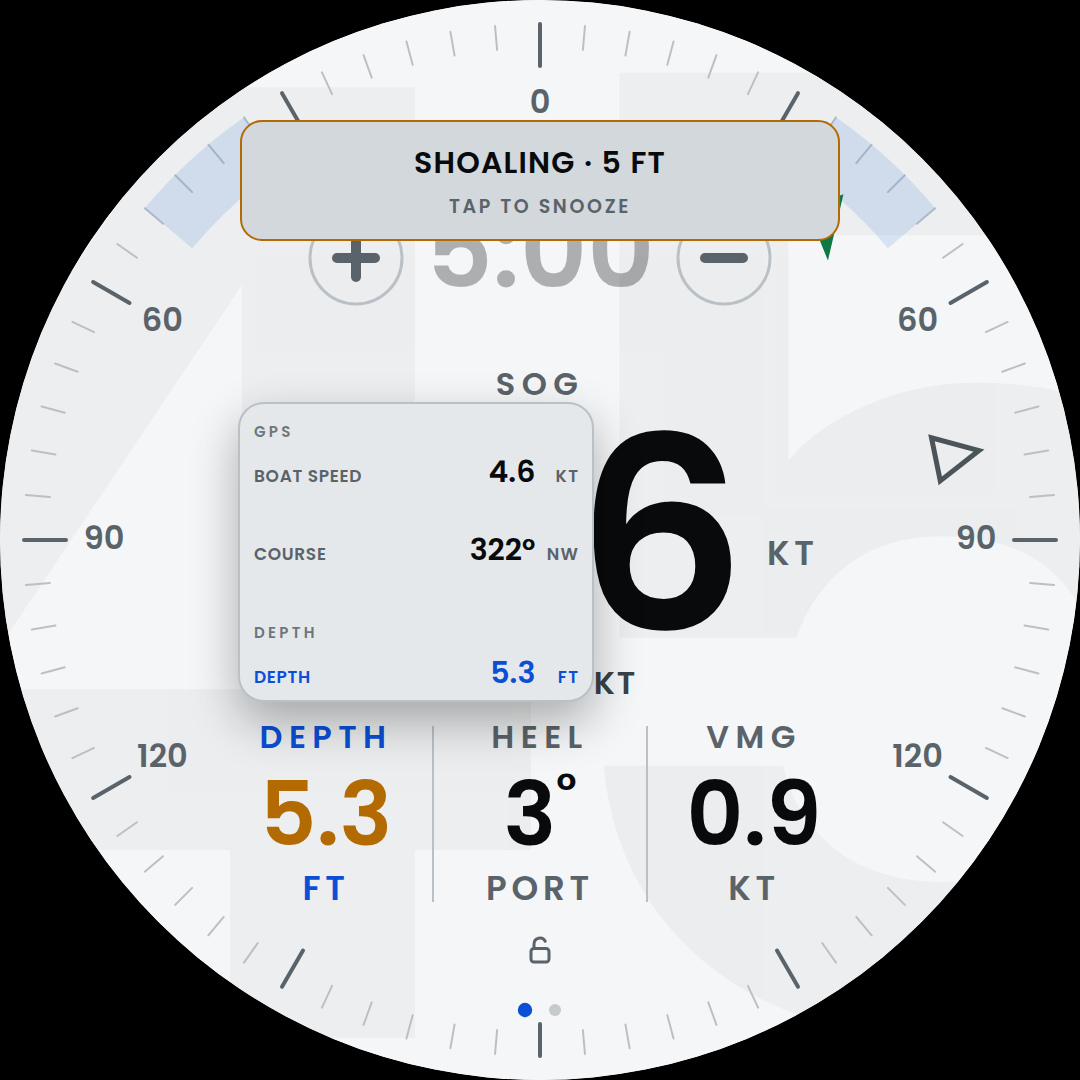
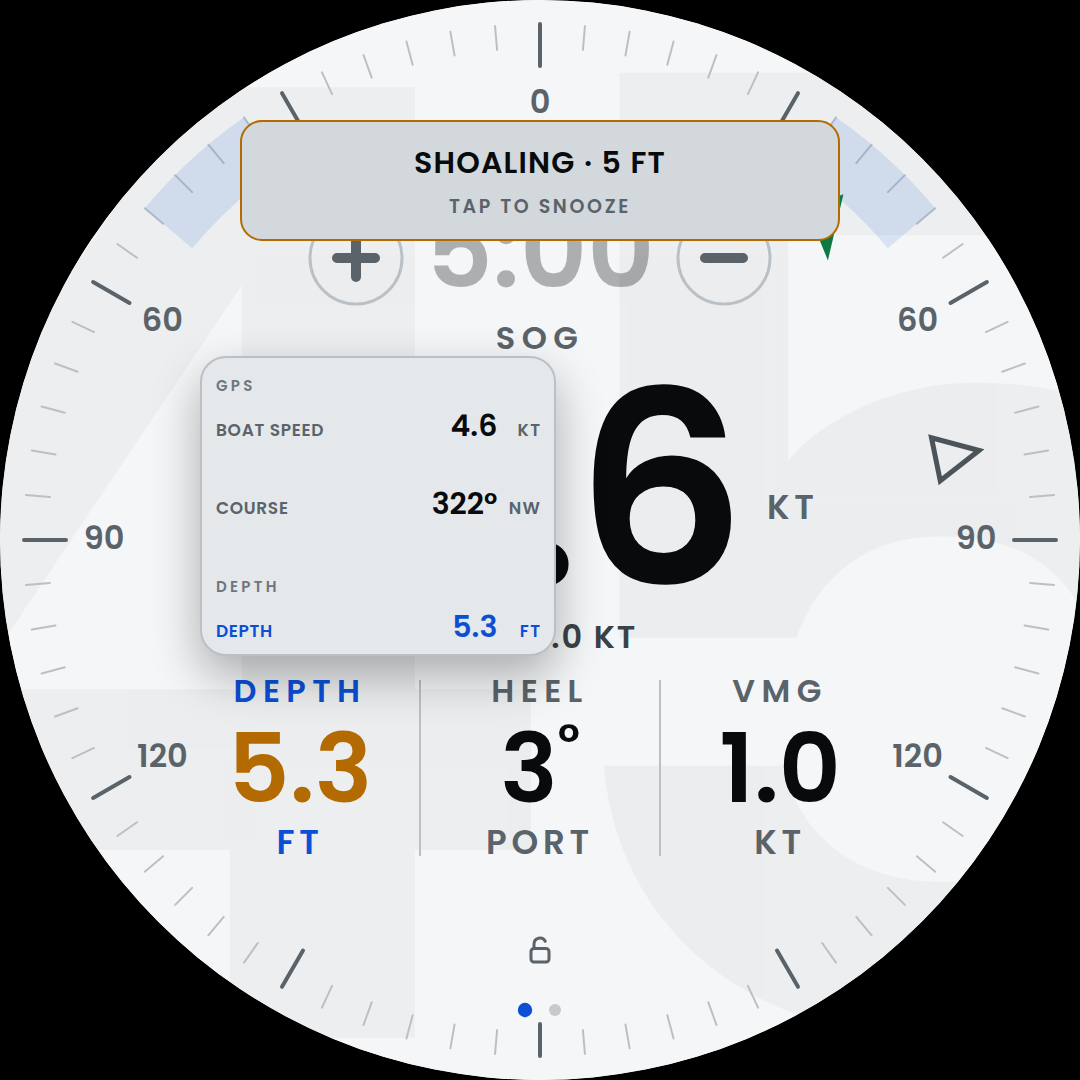
The middle up, the bottom row up, wider and bigger
The big cell rises 46: label at 340, 23 under the +/- circles, number at
510, its unit and the strip (639) with it. The bottom row takes the room:
header 693, value 775, unit 845, at 300, 540 and 780 - 240 apart, up
from 214 - and the values at 96px, up from 88. The hairlines move to 420
and 660 and the tap rects follow, 200 wide. The outer two sit 7 clear
of the bezel's 120s with 88.8, the widest common value; a signed
five-character angle out there would cross them by 6, which is the
same rare case the cuts already accepted.

The RACE box, which covers the big cell, tightens to 312..614 so it
still ends above the strip: values at 80px, the bias row at 572.

Claude-Session: https://claude.ai/code/session_01BmvizJiQLmvpEFfAxzaKX2

Changed region(s): [[0.1528, 0.3361, 0.7639, 0.8556], [0.6417, 0.6111, 0.7944, 0.8556], [0.3972, 0.3056, 0.55, 0.4278]]

diff --git a/confluence_helm.html b/confluence_helm.html
@@ -105,13 +105,13 @@ svg{width:100%;height:100%;display:block}
 
 .huge{font-size:268px;font-weight:var(--w-huge);fill:var(--ink);letter-spacing:-.02em}
 .value{font-size:104px;font-weight:var(--w-val);fill:var(--ink)}
-/* the three cells along the bottom, one size. 88 is what fits between
-   the two hairlines that cut the row: a heading with its ring is 190
-   wide, 88.8 is 193, and the cells are 214 apart. The middle one used
+/* the three cells along the bottom, one size. 96 is what fits between
+   the two hairlines that cut the row: a heading with its ring is 207
+   wide, 88.8 is 210, and the cells are 240 apart. The middle one used
    to be 68 and dimmer, because only the outer two could spill toward
    the rim; with the cuts there is nowhere to spill, so all three fit
    the same space and read the same. */
-.cellv{font-size:88px;font-weight:var(--w-val);fill:var(--ink)}
+.cellv{font-size:96px;font-weight:var(--w-val);fill:var(--ink)}
 .cut{stroke:var(--hairline);stroke-width:2}
 /* The middle cell is narrower than its neighbours because it has to be:
    the three are 214px apart and only the outer two can overflow towards
@@ -152,7 +152,7 @@ body.night #mark{opacity:.07}
 .rp-box.on{opacity:1;transform:scale(1);pointer-events:auto}
 .rp-face{fill:var(--panel);stroke-width:3}
 .rp-l{font-size:24px;font-weight:var(--w-lbl);letter-spacing:.18em;fill:var(--label)}
-.rp-v{font-size:84px;font-weight:var(--w-val);fill:var(--ink)}
+.rp-v{font-size:80px;font-weight:var(--w-val);fill:var(--ink)}
 .rp-u{font-size:24px;font-weight:600;letter-spacing:.14em;fill:var(--label)}
 .rp-bias{font-size:36px;font-weight:var(--w-val);fill:var(--ink)}
 .pbtn .ring{fill:none;stroke:var(--label);stroke-width:2.5}
@@ -1389,19 +1389,21 @@ document.body.className = THEME_EFF==='day' ? '' : THEME_EFF;
 
   <!-- 432 tucked this into the digits' negative space, which worked while
        it said SOG and stopped working the moment it could say BOAT SPEED
-       or APPARENT WIND. 386 clears them: dominant-baseline:middle puts
-       the digits' ink at 432..629, not at the 359 the y attribute alone
-       would suggest, so the label's own ink at 373..395 has 37px of air
-       under it. It clears the timer's +/- buttons at 304 too. -->
-  <text id="spd-label" class="label" x="540" y="386" text-anchor="middle">SOG</text>
-  <text id="spd" class="huge" x="540" y="556" text-anchor="middle">0.0</text>
+       or APPARENT WIND. 340 clears them: dominant-baseline:middle puts
+       the digits' ink at 386..583, not at the 313 the y attribute alone
+       would suggest, so the label's own ink at 327..349 has 37px of air
+       under it, and 23 above it to the timer's +/- at 304. The whole
+       middle sits 46 higher than it did, which is what the bottom row
+       grew into. -->
+  <text id="spd-label" class="label" x="540" y="340" text-anchor="middle">SOG</text>
+  <text id="spd" class="huge" x="540" y="510" text-anchor="middle">0.0</text>
   <!-- Beside the number, not under it, and sharing its y: every text on
        this dial is dominant-baseline:middle, so the same y centres the
        unit on the number's own middle rather than dropping it to the
        baseline. dialUnitX() sets the x each repaint from the number's
        measured width. Anchored start so the unit grows rightward into
        empty glass instead of back into the digits. -->
-  <text id="spd-u" class="unit" x="756" y="556" text-anchor="start">KT</text>
+  <text id="spd-u" class="unit" x="756" y="510" text-anchor="start">KT</text>
   <!-- Off-glass, and the only thing that ever measures a huge string.
        visibility rather than display so getBBox still answers. -->
   <text id="spd-meas" class="huge" x="0" y="-400" visibility="hidden">0</text>
@@ -1412,11 +1414,15 @@ document.body.className = THEME_EFF==='day' ? '' : THEME_EFF;
        above and 32 of the headers below. It belongs with the number -
        it is that number's context. -->
   <g id="strip">
-    <text id="p-tws" class="strip" x="540" y="685" text-anchor="middle">TWS ––</text>
+    <text id="p-tws" class="strip" x="540" y="639" text-anchor="middle">TWS ––</text>
   </g>
 
 
-  <!-- One grid for all three: header 739, value 821, unit 891. These are
+  <!-- One grid for all three: header 693, value 775, unit 845, at 300,
+       540 and 780 - 240 apart, up from 214, and 46 higher than they
+       were, which is what moving the big number up bought. The outer
+       two sit 7 clear of the bezel's 120s at 188 and 892 with the
+       widest common value, 88.8 at 96px. These are
        MIDDLES, not baselines - dominant-baseline:middle is set on every
        text in this file - so the ink lands 726..748, 772..852 and
        876..900: 25px of air under the header and 25 under the number.
@@ -1427,25 +1433,25 @@ document.body.className = THEME_EFF==='day' ? '' : THEME_EFF;
        914 - and the x's do not move: the bezel's 120 tick labels sit at
        137..188 and 892..943, and a 104px reading pushed outboard runs
        straight into them. -->
-  <text id="c1-lbl" class="label" x="326" y="739" text-anchor="middle">DEPTH</text>
-  <text id="dpt" class="cellv" x="326" y="821" text-anchor="middle">––</text>
-  <text id="dpt-u" class="unit" x="326" y="891" text-anchor="middle">FT</text>
+  <text id="c1-lbl" class="label" x="300" y="693" text-anchor="middle">DEPTH</text>
+  <text id="dpt" class="cellv" x="300" y="775" text-anchor="middle">––</text>
+  <text id="dpt-u" class="unit" x="300" y="845" text-anchor="middle">FT</text>
 
-  <text id="c2-lbl" class="label" x="540" y="739" text-anchor="middle">HEEL</text>
-  <text id="c2" class="cellv" x="540" y="821" text-anchor="middle">––</text>
+  <text id="c2-lbl" class="label" x="540" y="693" text-anchor="middle">HEEL</text>
+  <text id="c2" class="cellv" x="540" y="775" text-anchor="middle">––</text>
   <!-- .unit: STBD under a heel angle is the same kind of line as FT
        under a depth, and it looks it. -->
-  <text id="c2b" class="unit" x="540" y="891" text-anchor="middle">––</text>
+  <text id="c2b" class="unit" x="540" y="845" text-anchor="middle">––</text>
 
-  <text id="c3-lbl" class="label" x="754" y="739" text-anchor="middle">VMG</text>
-  <text id="vmg" class="cellv" x="754" y="821" text-anchor="middle">––</text>
+  <text id="c3-lbl" class="label" x="780" y="693" text-anchor="middle">VMG</text>
+  <text id="vmg" class="cellv" x="780" y="775" text-anchor="middle">––</text>
+  <text id="c3-u" class="unit" x="780" y="845" text-anchor="middle">KT</text>
 
   <!-- Two hairlines cut the row into its cells, midway between the
-       centres, the height of the row: header ink at 726, unit ink to
-       900. -->
-  <line class="cut" x1="433" y1="726" x2="433" y2="902"/>
-  <line class="cut" x1="647" y1="726" x2="647" y2="902"/>
-  <text id="c3-u" class="unit" x="754" y="891" text-anchor="middle">KT</text>
+       centres, the height of the row: header ink at 680, unit ink to
+       854. -->
+  <line class="cut" x1="420" y1="680" x2="420" y2="856"/>
+  <line class="cut" x1="660" y1="680" x2="660" y2="856"/>
 
   <!-- Tap targets over the four cells. LAST in the SVG, and that is not
        cosmetic: SVG has no z-index, so painting order is hit-test order,
@@ -1463,16 +1469,16 @@ document.body.className = THEME_EFF==='day' ? '' : THEME_EFF;
   <g id="dial-cells">
     <!-- The big one, over the label, the number AND the unit beside it:
          a widest-case 88.8 puts the unit's tail at 882. -->
-    <rect class="dcell" data-g="dial" data-slot="c0" x="270" y="368"
-          width="620" height="272" fill="transparent"/>
-    <rect class="dcell" data-g="dial" data-slot="c1" x="238" y="716"
-          width="176" height="188" fill="transparent"/>
-    <rect class="dcell" data-g="dial" data-slot="c2" x="452" y="716"
-          width="176" height="188" fill="transparent"/>
-    <rect class="dcell" data-g="dial" data-slot="c3" x="666" y="716"
-          width="176" height="188" fill="transparent"/>
+    <rect class="dcell" data-g="dial" data-slot="c0" x="270" y="322"
+          width="620" height="278" fill="transparent"/>
+    <rect class="dcell" data-g="dial" data-slot="c1" x="200" y="670"
+          width="200" height="190" fill="transparent"/>
+    <rect class="dcell" data-g="dial" data-slot="c2" x="440" y="670"
+          width="200" height="190" fill="transparent"/>
+    <rect class="dcell" data-g="dial" data-slot="c3" x="680" y="670"
+          width="200" height="190" fill="transparent"/>
     <!-- The strip. -->
-    <rect class="dcell" id="dc4" data-g="dial" data-slot="c4" x="420" y="652"
+    <rect class="dcell" id="dc4" data-g="dial" data-slot="c4" x="420" y="606"
           width="240" height="60" fill="transparent"/>
   </g>
 
@@ -1488,11 +1494,12 @@ document.body.className = THEME_EFF==='day' ? '' : THEME_EFF;
        do, since it is in timerTap()'s third.
        Tap the pill and the box opens; the countdown opens it by itself
        and the gun closes it. The box covers the big cell - 184..896 by
-       312..646 takes in a 4-digit number and its unit - and carries
+       312..614 takes in a 4-digit number and its unit, and ends above
+       the strip at 639 - and carries
        what it covers in its first slot, so nothing is lost:
            SOG 4.6 KT   |   LINE 45 M   |   BURN +3 S
                      (P)   PIN +12   (B)
-       Values at 84px. Declared after the tap rects so the box, not the
+       Values at 80px. Declared after the tap rects so the box, not the
        big cell's rect under it, gets the taps - which is what lets P
        and B work. -->
   <!-- One gradient per state. The pill's fill and the box's border both
@@ -1526,31 +1533,31 @@ document.body.className = THEME_EFF==='day' ? '' : THEME_EFF;
          BRG to the next mark (or to the finish line once the course is
          sailed), and which mark that is. The same slots serve both. -->
     <g id="rp-box" class="rp-box">
-      <rect id="rp-face" class="rp-face" x="184" y="312" width="712" height="334" rx="24" stroke="url(#rp-g-idle)"/>
-      <text id="rp-c0-l"   class="rp-l" x="300" y="352" text-anchor="middle">SOG</text>
-      <text id="rp-c0"     class="rp-v" x="300" y="416" text-anchor="middle">––</text>
-      <text id="rp-c0-u"   class="rp-u" x="300" y="474" text-anchor="middle"></text>
-      <text id="rp-2-l"    class="rp-l" x="540" y="352" text-anchor="middle">LINE</text>
-      <text id="rp-2"      class="rp-v" x="540" y="416" text-anchor="middle">––</text>
-      <text id="rp-2-u"    class="rp-u" x="540" y="474" text-anchor="middle">M</text>
-      <text id="rp-3-l"    class="rp-l" x="780" y="352" text-anchor="middle">BURN</text>
-      <text id="rp-3"      class="rp-v" x="780" y="416" text-anchor="middle">––</text>
-      <text id="rp-3-u"    class="rp-u" x="780" y="474" text-anchor="middle">S</text>
-      <text id="rp-r2-l"   class="rp-l" x="540" y="532" text-anchor="middle">LINE BIAS</text>
-      <text id="rp-r2"     class="rp-bias" x="540" y="588" text-anchor="middle">––</text>
+      <rect id="rp-face" class="rp-face" x="184" y="312" width="712" height="302" rx="24" stroke="url(#rp-g-idle)"/>
+      <text id="rp-c0-l"   class="rp-l" x="300" y="348" text-anchor="middle">SOG</text>
+      <text id="rp-c0"     class="rp-v" x="300" y="408" text-anchor="middle">––</text>
+      <text id="rp-c0-u"   class="rp-u" x="300" y="464" text-anchor="middle"></text>
+      <text id="rp-2-l"    class="rp-l" x="540" y="348" text-anchor="middle">LINE</text>
+      <text id="rp-2"      class="rp-v" x="540" y="408" text-anchor="middle">––</text>
+      <text id="rp-2-u"    class="rp-u" x="540" y="464" text-anchor="middle">M</text>
+      <text id="rp-3-l"    class="rp-l" x="780" y="348" text-anchor="middle">BURN</text>
+      <text id="rp-3"      class="rp-v" x="780" y="408" text-anchor="middle">––</text>
+      <text id="rp-3-u"    class="rp-u" x="780" y="464" text-anchor="middle">S</text>
+      <text id="rp-r2-l"   class="rp-l" x="540" y="518" text-anchor="middle">LINE BIAS</text>
+      <text id="rp-r2"     class="rp-bias" x="540" y="572" text-anchor="middle">––</text>
       <!-- start line pings: the two ends of the line either side of the
            bias, which is why PIN +12 reads as a sentence. The drawn ring
            is 18 px; the transparent circle under it is the tap target. -->
       <g id="pings">
         <g id="ping-pin" class="pbtn">
-          <circle class="hit" cx="400" cy="588" r="30"/>
-          <circle class="ring" cx="400" cy="588" r="20"/>
-          <text x="400" y="588" text-anchor="middle">P</text>
+          <circle class="hit" cx="400" cy="572" r="30"/>
+          <circle class="ring" cx="400" cy="572" r="20"/>
+          <text x="400" y="572" text-anchor="middle">P</text>
         </g>
         <g id="ping-boat" class="pbtn">
-          <circle class="hit" cx="680" cy="588" r="30"/>
-          <circle class="ring" cx="680" cy="588" r="20"/>
-          <text x="680" y="588" text-anchor="middle">B</text>
+          <circle class="hit" cx="680" cy="572" r="30"/>
+          <circle class="ring" cx="680" cy="572" r="20"/>
+          <text x="680" y="572" text-anchor="middle">B</text>
         </g>
       </g>
     </g>
